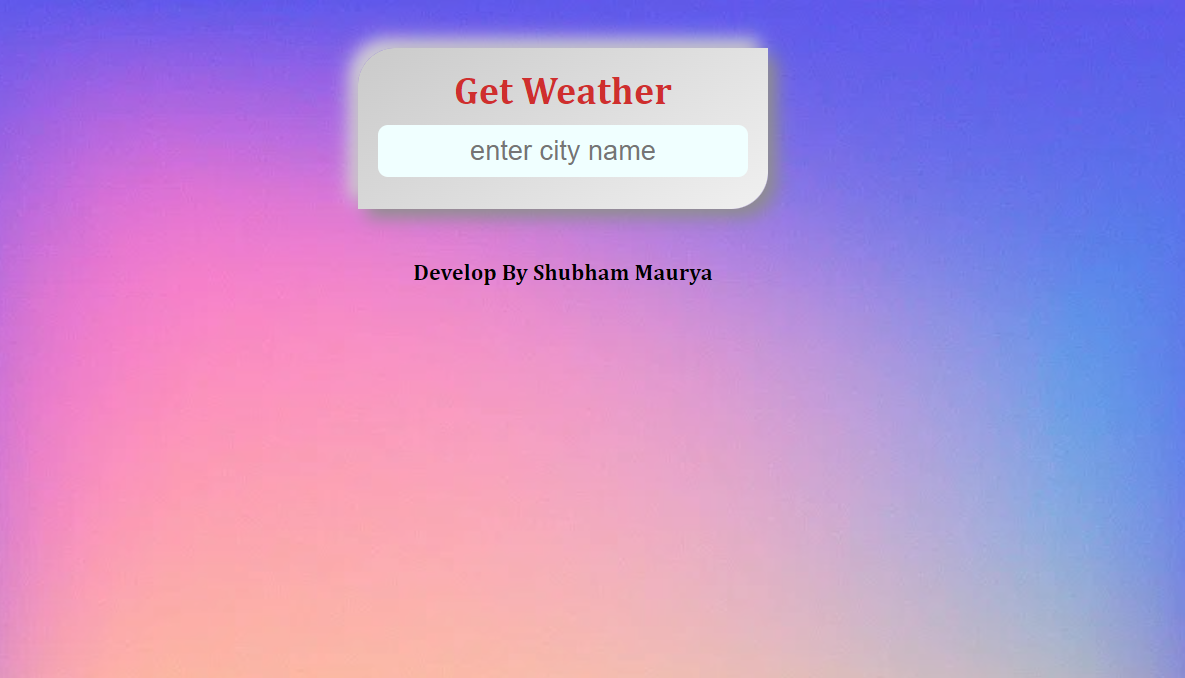
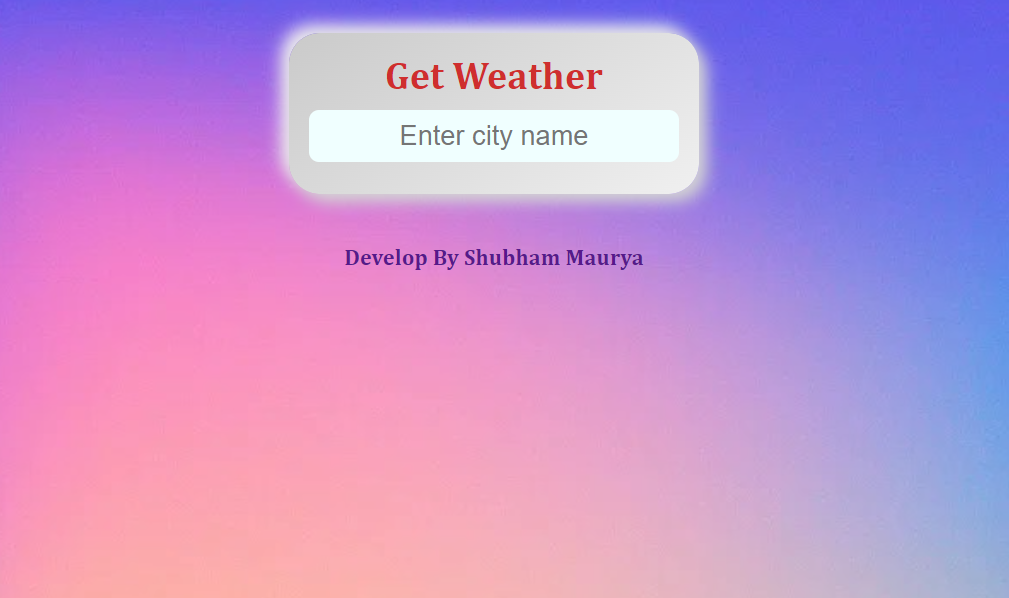
recorrect

diff --git a/index.html b/index.html
@@ -18,7 +18,7 @@
             <h4>Get Weather</h4>
         </div>
         <div class="searchInputBox">
-            <input type="text" name="" id="input-box" class="input-box" placeholder="enter city name">
+            <input type="text" name="" id="input-box" class="input-box" placeholder="Enter city name">
         </div>
         <div class="weather-body" id="weather-body">
             <!-- weather-body will be append through JavaScript -->

diff --git a/style.css b/style.css
@@ -28,10 +28,10 @@ a{
   margin: 50px auto;
   padding: 20px;
   text-align: center;
-  border-radius: 37px 0 37px 0;
+  border-radius: 31px;
   background: linear-gradient(145deg, #cacaca, #f0f0f0);
-  box-shadow:  9px 9px 18px #8d8c8c,
-               -9px -9px 18px #d6d5d5;
+  box-shadow:  8px 8px 16px #d3d3d3,
+               -8px -8px 16px #ededed;
 }
 .app-main > * {
   margin-bottom: 12px;

diff --git a/README.md b/README.md
@@ -19,7 +19,7 @@
 * a good  ux/ui 
 
 
-### Snapshot
+### Screenshot
 
 * Default 
 <img src="ss/demo1.png" width="100%">
